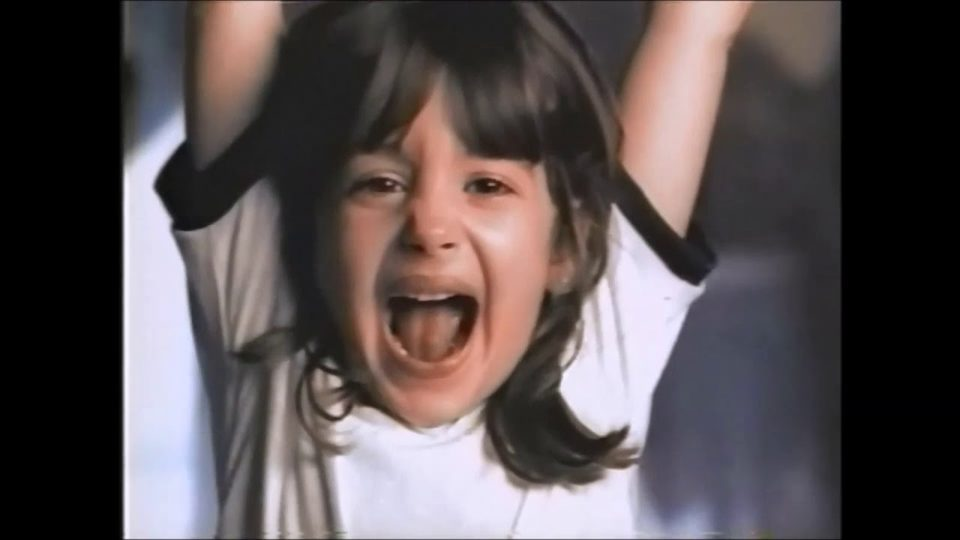
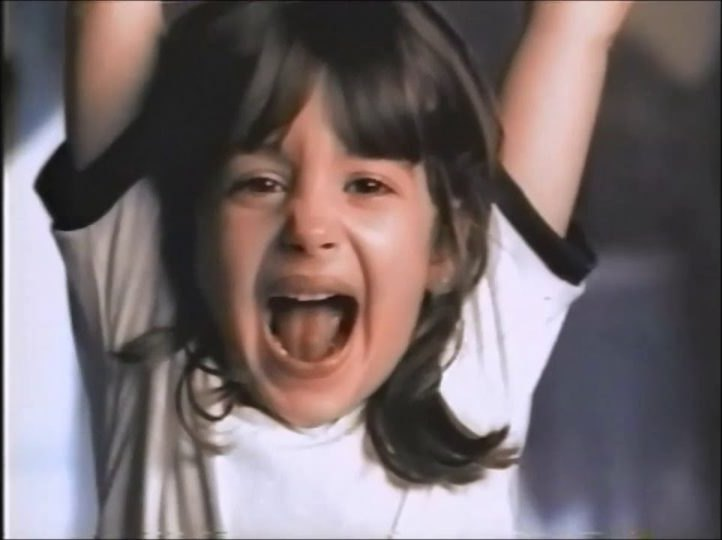
Corrige os defeitos achados na auditoria visual das três frentes
Três agentes auditaram 17 rotas em cinco larguras, com capturas lidas uma a uma.
Boa parte do que acharam eu tinha acabado de introduzir.

GRAVES
- A etiqueta de função da equipe era DECAPITADA dentro do card: `white-space:
  nowrap` mais o `overflow: hidden` do card faziam "Pesquisador associado" (193px)
  virar "PESQUISADOR ASS" num card de 136px — 15 dos 16 cards a 320px. Não gerava
  rolagem horizontal, então nenhum teste automático pegava. Agora o rótulo é
  "Associado", a pílula quebra em duas linhas e o cargo usa `overflow-wrap`.
- A sanfona do menu mobile NÃO FECHAVA: as regras de desktop (`:hover` e
  `:focus-within`, especificidade 0,3,0) venciam tanto o `display: none` do bloco
  mobile quanto a própria sanfona (0,2,0). Num toque real o `:hover` fica grudado,
  então o submenu ficava aberto com a seta já girada. As regras de desktop agora
  vivem em `@media (min-width: 901px)`.
- A miniatura do documentário era 49,6% tarja preta: o `hqdefault` do YouTube
  entrega um cartaz em retrato dentro de um quadro 4:3. As tarjas foram recortadas
  dos dois arquivos e a fachada usa `contain` sobre o navy da marca.
- `/projetos/pesquisa-covid/` tinha 14 títulos, 9 deles colados uns nos outros, e
  um "título" de 242 caracteres — a migração do WordPress transformou uma lista de
  frentes de pesquisa em parede de H2. Viraram listas; "Tabela 1" e "Tabela 2",
  que são legendas de tabelas que não vieram, viraram legendas em negrito. Nenhuma
[…]

diff --git a/src/styles/global.css b/src/styles/global.css
@@ -94,6 +94,14 @@ p {
   margin-bottom: 0;
 }
 
+/* `.prosa--intro` é usada em três páginas e NÃO tinha regra nenhuma — era classe
+   morta. Como `.prosa > :last-child` zera a margem do último parágrafo e o bloco
+   seguinte não traz `margin-top`, o texto encostava nas abas de filtro e nos
+   cards: 0px de folga, medido. */
+.prosa--intro {
+  margin-bottom: var(--esp-3);
+}
+
 /* Medida de leitura: limita a linha ao token --largura-prosa (68ch). Para um
    texto de introdução curto, é melhor que duas colunas — que só compensam em
    texto longo, como o da home. Sem isto, a prosa herda os 1108px do container e
@@ -192,6 +200,9 @@ p {
   font-weight: 600;
 }
 .voltar a {
+  /* o alvo tinha 18px de altura, abaixo do mínimo de 24px */
+  display: inline-block;
+  padding-block: 0.25rem;
   text-decoration: none;
 }
 .voltar a:hover {

diff --git a/extracao/dados/projetos/pesquisa-covid.md b/extracao/dados/projetos/pesquisa-covid.md
@@ -17,11 +17,11 @@ O quarto conjunto compreende os decretos de cunho “Orçamentário” sendo o p
 
 Os decretos especificamente na área de “Saúde” referem-se, majoritariamente, a medidas preventivas de contenção da Covid 19. A categoria residual “Outros” compreende declaração de luto oficial pelo falecimento em razão da Covid, redução de impacto da pandemia em setores específicos, como turismo etc.
 
-## Tabela 1. Decretos Municipais por Tema Estado do Rio de Janeiro – março a dezembro 2020
+**Tabela 1. Decretos Municipais por Tema — Estado do Rio de Janeiro, março a dezembro de 2020.**
 
 Na Tabela 2 encontramos a distribuição dos decretos de enfrentamento à Covid-19 nas regiões geopolíticas do Estado. Em todas as regiões os decretos de Restrição e de Flexibilização apresentam os maiores percentuais de decretos perfazendo mais de 50% do total. Na cidade do Rio de Janeiro, porém, os decretos Administrativos e de natureza Social têm, considerados isoladamente, percentuais maiores do que os decretos de Flexibilização.
 
-## Tabela 2. Distribuição de Decretos-Covid por Tema e Região Estado do Rio de Janeiro – março a dezembro de 2020
+**Tabela 2. Distribuição de Decretos-Covid por Tema e Região — Estado do Rio de Janeiro, março a dezembro de 2020.**
 
 A variação por município nos temas tratados é maior. No entanto, acompanhando a tendência geral a maioria deles apresentam percentuais mais altos nas categorias restritivas e de flexibilização das normas de quarentena e mobilidade. A listagem dos temas por município está disponível para download.
 
@@ -35,23 +35,18 @@ A maioria das prefeituras ficam na faixa de 40 a 50% desse tipo de decreto. OPP 
 
 ## Opiniões e comportamento da população às medidas de enfrentamento da Covid e seus impactos nos grupos mais vulneráveis
 
-## Realização de dois surveys com a população do estado, considerando três regiões: Cidade do Rio de Janeiro, Região Metropolitana sem a capital e o Interior.
-
-## Análise do impacto da pandemia no mercado de trabalho do Estado do Rio de Janeiro, comparando-o com o do Brasil. O Estado do Rio de Janeiro está dividido em três regiões: a capital, a região metropolitana sem a capital e o restante do Estado.
-
-## Análise do impacto da epidemia nos resultados das eleições municipais de 2020.
+- Realização de dois surveys com a população do estado, considerando três regiões: Cidade do Rio de Janeiro, Região Metropolitana sem a capital e o Interior.
+- Análise do impacto da pandemia no mercado de trabalho do Estado do Rio de Janeiro, comparando-o com o do Brasil. O Estado do Rio de Janeiro está dividido em três regiões: a capital, a região metropolitana sem a capital e o restante do Estado.
+- Análise do impacto da epidemia nos resultados das eleições municipais de 2020.
 
 ## Levantamento bibliográfico de publicações brasileiras e do exterior – 2020 início de 2022
 
-## Introdução
+- Introdução
+- Listagem dos textos organizada de acordo com os seguintes temas:
+- Listagem dos textos de acordo com a citação ao Brasil
+- Listagem dos títulos contendo links para os Abstracts das publicações selecionadas
 
-## Listagem dos textos organizada de acordo com os seguintes temas:
-
-## Listagem dos textos de acordo com a citação ao Brasil
-
-## Listagem dos títulos contendo links para os Abstracts das publicações selecionadas
-
-## Trabalho e Pandemia no Estado do Rio de Janeiro: entre a Vulnerabilidade e a Flexibilidade
+Trabalho e Pandemia no Estado do Rio de Janeiro: entre a Vulnerabilidade e a Flexibilidade.
 
 O impacto da Covid-19 no comportamento eleitoral do fluminense nas eleições de 2020 Guarnieri, F.; Figueiredo, A. 2022. In Felipe Borba e Argelina Figueiredo (orgs), As eleições municipais de 2020 no Estado do Rio de Janeiro, Editora da UERJ, 2022.
 

diff --git a/src/content/projetos/pesquisa-covid.md b/src/content/projetos/pesquisa-covid.md
@@ -17,11 +17,11 @@ O quarto conjunto compreende os decretos de cunho “Orçamentário” sendo o p
 
 Os decretos especificamente na área de “Saúde” referem-se, majoritariamente, a medidas preventivas de contenção da Covid 19. A categoria residual “Outros” compreende declaração de luto oficial pelo falecimento em razão da Covid, redução de impacto da pandemia em setores específicos, como turismo etc.
 
-## Tabela 1. Decretos Municipais por Tema Estado do Rio de Janeiro – março a dezembro 2020
+**Tabela 1. Decretos Municipais por Tema — Estado do Rio de Janeiro, março a dezembro de 2020.**
 
 Na Tabela 2 encontramos a distribuição dos decretos de enfrentamento à Covid-19 nas regiões geopolíticas do Estado. Em todas as regiões os decretos de Restrição e de Flexibilização apresentam os maiores percentuais de decretos perfazendo mais de 50% do total. Na cidade do Rio de Janeiro, porém, os decretos Administrativos e de natureza Social têm, considerados isoladamente, percentuais maiores do que os decretos de Flexibilização.
 
-## Tabela 2. Distribuição de Decretos-Covid por Tema e Região Estado do Rio de Janeiro – março a dezembro de 2020
+**Tabela 2. Distribuição de Decretos-Covid por Tema e Região — Estado do Rio de Janeiro, março a dezembro de 2020.**
 
 A variação por município nos temas tratados é maior. No entanto, acompanhando a tendência geral a maioria deles apresentam percentuais mais altos nas categorias restritivas e de flexibilização das normas de quarentena e mobilidade. A listagem dos temas por município está disponível para download.
 
@@ -35,23 +35,18 @@ A maioria das prefeituras ficam na faixa de 40 a 50% desse tipo de decreto. OPP 
 
 ## Opiniões e comportamento da população às medidas de enfrentamento da Covid e seus impactos nos grupos mais vulneráveis
 
-## Realização de dois surveys com a população do estado, considerando três regiões: Cidade do Rio de Janeiro, Região Metropolitana sem a capital e o Interior.
-
-## Análise do impacto da pandemia no mercado de trabalho do Estado do Rio de Janeiro, comparando-o com o do Brasil. O Estado do Rio de Janeiro está dividido em três regiões: a capital, a região metropolitana sem a capital e o restante do Estado.
-
-## Análise do impacto da epidemia nos resultados das eleições municipais de 2020.
+- Realização de dois surveys com a população do estado, considerando três regiões: Cidade do Rio de Janeiro, Região Metropolitana sem a capital e o Interior.
+- Análise do impacto da pandemia no mercado de trabalho do Estado do Rio de Janeiro, comparando-o com o do Brasil. O Estado do Rio de Janeiro está dividido em três regiões: a capital, a região metropolitana sem a capital e o restante do Estado.
+- Análise do impacto da epidemia nos resultados das eleições municipais de 2020.
 
 ## Levantamento bibliográfico de publicações brasileiras e do exterior – 2020 início de 2022
 
-## Introdução
+- Introdução
+- Listagem dos textos organizada de acordo com os seguintes temas:
+- Listagem dos textos de acordo com a citação ao Brasil
+- Listagem dos títulos contendo links para os Abstracts das publicações selecionadas
 
-## Listagem dos textos organizada de acordo com os seguintes temas:
-
-## Listagem dos textos de acordo com a citação ao Brasil
-
-## Listagem dos títulos contendo links para os Abstracts das publicações selecionadas
-
-## Trabalho e Pandemia no Estado do Rio de Janeiro: entre a Vulnerabilidade e a Flexibilidade
+Trabalho e Pandemia no Estado do Rio de Janeiro: entre a Vulnerabilidade e a Flexibilidade.
 
 O impacto da Covid-19 no comportamento eleitoral do fluminense nas eleições de 2020 Guarnieri, F.; Figueiredo, A. 2022. In Felipe Borba e Argelina Figueiredo (orgs), As eleições municipais de 2020 no Estado do Rio de Janeiro, Editora da UERJ, 2022.
 
